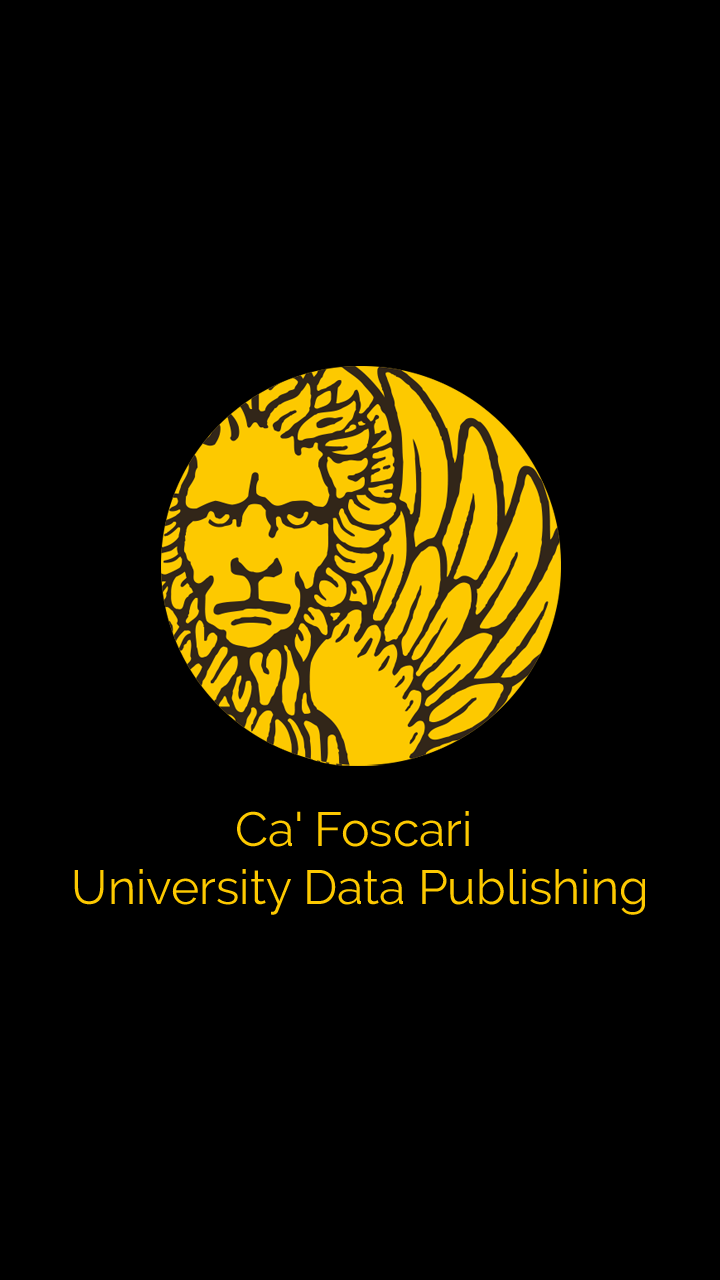
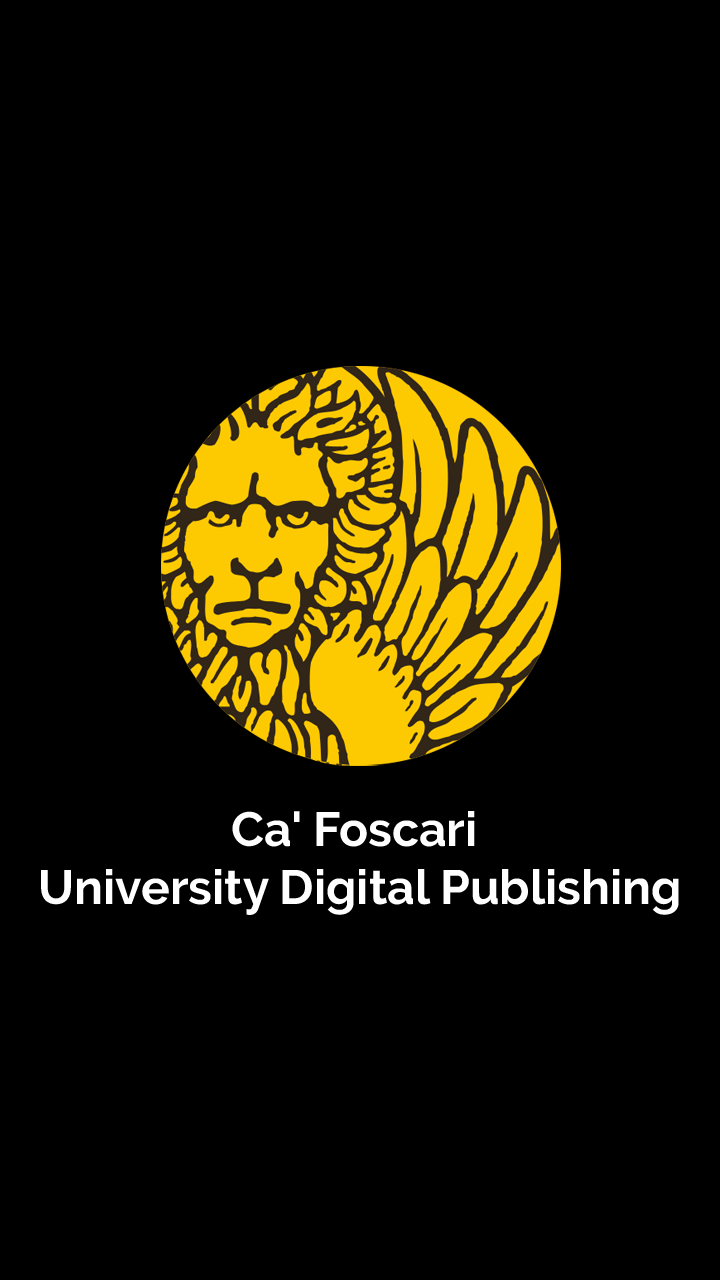
201511251242

Changed region(s): [[0.0611, 0.625, 0.9472, 0.7188]]

diff --git a/www/index.html b/www/index.html
@@ -54,13 +54,17 @@
   <ion-view view-title="Cà Foscari University Press">
 	  	<ion-nav-title class="titleh" style="height:100px;">
 		  <img src="images/50icon.png" style="vertical-align:top; height:40px;">
-		  <span style="font-size:15px;">Cà Foscari University Data Publishing</span>
+		  <span style="font-size:15px;">Cà Foscari University Digital Publishing</span>
 		</ion-nav-title>
   	<ion-content class="bodycolor"> 
-		<div style="margin-top:40px;">
-			<center><img src="images/user.png" height="240px;"></center>
+		<div style="margin-top:15px;">
+			<center><img src="images/user.png" height="240px;" width="240px;"></center>
 		</div>
-		<center><button class="button button-large button-energized" style="margin-top:15px;" ng-click="showtask()">Tasks</button></center>
+		<div class="row">
+			<div class="col col-50" style="text-align:center"><button class="button button-large button-energized"><img src="images/send.png" width="50px;"></button></div>
+			<div class="col col-50" style="text-align:center; margin-left:0px;"><button class="button button-large button-energized"><img src="images/ring.png" width="50px;"></button></div>
+		</div>
+		<center><button class="button button-large button-energized" style="margin-top:15px; width:240px;" ng-click="showtask()">Tasks</button></center>
 	</ion-content>
   </ion-view>
 </script>
@@ -110,12 +114,16 @@
 </script>
 
 <script id="templates/reviewdetail.html" type="text/ng-template">
-  <ion-view view-title="Review Detail">
+  <ion-view view-title="{{reviewtitle}}">
 	<ion-content class="bodycolor">
 	<div class="list">
 	  <label class="item item-input bodycolor">
 		  <span class="input-label bodycolor">Description:</span>
 		  <span class="input-label bodycolor">Economic report, 15 pages</span>
+		</label>
+		<label class="item item-input bodycolor">
+		  <span class="input-label bodycolor">Language:</span>
+		  <span class="input-label bodycolor">English</span>
 		</label>
 		<label class="item item-input bodycolor">
 		  <span class="input-label bodycolor">Deadline:</span>
@@ -129,6 +137,10 @@
 		  <span class="input-label bodycolor">Referent:</span>
 		  <span class="input-label bodycolor">Professor Giovanni Vaia</span>
 		</label>
+		<label class="item item-input bodycolor">
+		  <span class="input-label bodycolor">Contact:</span>
+		  <span class="input-label bodycolor">m.spolaor@gmail.com</span>
+		</label>
 		<div class="row">
 		  <div class="col col-50" style="text-align:center"><button class="button {{buttoncolor11}}" ng-click="changecolor(11)">Accepted</button></div>
 		  <div class="col col-50" style="text-align:center"><button class="button {{buttoncolor12}}" ng-click="changecolor(12)">Done</button></div>
@@ -139,12 +151,16 @@
 </script>
 
 <script id="templates/reviewdetail1.html" type="text/ng-template">
-  <ion-view view-title="Review Detail">
+  <ion-view view-title="{{reviewtitle}}">
 	<ion-content class="bodycolor">
 	<div class="list">
 	  <label class="item item-input bodycolor">
 		  <span class="input-label bodycolor">Description:</span>
 		  <span class="input-label bodycolor">Scientific dissertation, 21 pages</span>
+		</label>
+		<label class="item item-input bodycolor">
+		  <span class="input-label bodycolor">Language:</span>
+		  <span class="input-label bodycolor">English</span>
 		</label>
 		<label class="item item-input bodycolor">
 		  <span class="input-label bodycolor">Deadline:</span>
@@ -157,6 +173,10 @@
 		<label class="item item-input bodycolor">
 		  <span class="input-label bodycolor">Referent:</span>
 		  <span class="input-label bodycolor">Professor Giovanni Vaia</span>
+		</label>
+		<label class="item item-input bodycolor">
+		  <span class="input-label bodycolor">Contact:</span>
+		  <span class="input-label bodycolor">m.spolaor@gmail.com</span>
 		</label>
 		<div class="row">
 		  <div class="col col-50" style="text-align:center"><button class="button {{buttoncolor11}}" ng-click="changecolor(11)">Accepted</button></div>
@@ -182,12 +202,16 @@
 </script>
 
 <script id="templates/translatedetail1.html" type="text/ng-template">
-  <ion-view view-title="Translate Detail">
+  <ion-view view-title="{{reviewtitle}}">
 	<ion-content class="bodycolor">
 	<div class="list">
 	  <label class="item item-input bodycolor">
 		  <span class="input-label bodycolor">Description:</span>
 		  <span class="input-label bodycolor">Sociological report, 40 pages</span>
+		</label>
+		<label class="item item-input bodycolor">
+		  <span class="input-label bodycolor">Language:</span>
+		  <span class="input-label bodycolor">Japanese</span>
 		</label>
 		<label class="item item-input bodycolor">
 		  <span class="input-label bodycolor">Deadline:</span>
@@ -200,6 +224,10 @@
 		<label class="item item-input bodycolor">
 		  <span class="input-label bodycolor">Referent:</span>
 		  <span class="input-label bodycolor">Professor Giovanni Vaia</span>
+		</label>
+		<label class="item item-input bodycolor">
+		  <span class="input-label bodycolor">Contact:</span>
+		  <span class="input-label bodycolor">m.spolaor@gmail.com</span>
 		</label>
 		<div class="row">
 		  <div class="col col-50" style="text-align:center"><button class="button {{buttoncolor11}}" ng-click="changecolor(11)">Accepted</button></div>
@@ -215,7 +243,7 @@
 	<ion-content class="bodycolor">
 	<ul class="list">
 			<li class="item bodycolor">
-				<a class="item-icon-right bodycolor" ng-click="showeditdetail1()">1. Article C by Jesse Stuart
+				<a class="item-icon-right bodycolor" ng-click="showeditdetail1()">1. Article D	by Alfredo Colli
 					 <i class="icon ion-ios-arrow-right"></i>
 				</a>
 			</li>
@@ -225,12 +253,16 @@
 </script>
 
 <script id="templates/editdetail1.html" type="text/ng-template">
-  <ion-view view-title="Edit Detail">
+  <ion-view view-title="{{reviewtitle}}">
 	<ion-content class="bodycolor">
 	<div class="list">
 	  <label class="item item-input bodycolor">
 		  <span class="input-label bodycolor">Description:</span>
 		  <span class="input-label bodycolor">Historic essay, 34 pages</span>
+		</label>
+		<label class="item item-input bodycolor">
+		  <span class="input-label bodycolor">Language:</span>
+		  <span class="input-label bodycolor">Italian</span>
 		</label>
 		<label class="item item-input bodycolor">
 		  <span class="input-label bodycolor">Deadline:</span>
@@ -244,7 +276,10 @@
 		  <span class="input-label bodycolor">Referent:</span>
 		  <span class="input-label bodycolor">Professor Giovanni Vaia</span>
 		</label>
-		
+		<label class="item item-input bodycolor">
+		  <span class="input-label bodycolor">Contact:</span>
+		  <span class="input-label bodycolor">m.spolaor@gmail.com</span>
+		</label>
 		<div class="row">
 		  <div class="col col-50" style="text-align:center"><button class="button {{buttoncolor11}}" ng-click="changecolor(11)">Accepted</button></div>
 		  <div class="col col-50" style="text-align:center"><button class="button {{buttoncolor12}}" ng-click="changecolor(12)">Done</button></div>

diff --git a/www/js/controller.js b/www/js/controller.js
@@ -75,6 +75,8 @@ angular.module('starter.controllers', [])
 	var val1 = localStorage.getItem("rbutton1");
 	var val2 = localStorage.getItem("rbutton2");
 	
+	$scope.reviewtitle = "Article A by John Smith";
+	
 	if(val1 != 1)$scope.buttoncolor11 = "button-assertive";
 	else $scope.buttoncolor11 = "button-energized";
 	if(val2 != 1)$scope.buttoncolor12 = "button-assertive";
@@ -95,6 +97,8 @@ angular.module('starter.controllers', [])
 .controller('reviewdetail1Ctrl', function($scope,$state) {
 	var val1 = localStorage.getItem("r1button1");
 	var val2 = localStorage.getItem("r1button2");
+	
+	$scope.reviewtitle = "Article B by Fred Malton";
 	
 	if(val1 != 1)$scope.buttoncolor11 = "button-assertive";
 	else $scope.buttoncolor11 = "button-energized";
@@ -117,6 +121,8 @@ angular.module('starter.controllers', [])
 	var val1 = localStorage.getItem("tbutton1");
 	var val2 = localStorage.getItem("tbutton2");
 	
+	$scope.reviewtitle = "Article C by Jesse Stuart";
+	
 	if(val1 != 1)$scope.buttoncolor11 = "button-assertive";
 	else $scope.buttoncolor11 = "button-energized";
 	if(val2 != 1)$scope.buttoncolor12 = "button-assertive";
@@ -136,6 +142,8 @@ angular.module('starter.controllers', [])
 .controller('editdetail1Ctrl', function($scope,$state) {
 	var val1 = localStorage.getItem("ebutton1");
 	var val2 = localStorage.getItem("ebutton2");
+	
+	$scope.reviewtitle = "Article D	by Alfredo Colli";
 	
 	if(val1 != 1)$scope.buttoncolor11 = "button-assertive";
 	else $scope.buttoncolor11 = "button-energized";

diff --git a/www/css/style.css b/www/css/style.css
@@ -5,7 +5,9 @@
 .backcolor{background-color:#F8F8F8}
 .bodycolor{background-color:#000; color:#FFF; border-left-color:#000;}
 /* ancher config */
-a{text-decoration: none; display:block; width:100%; color:#000;}
+a{text-decoration: none; display:block; width:100%; color:#000; }
+
+.button-image{background: url(../images/ring.png) no-repeat;}
 
 .titleh{height:100px; }
 /* header background color */
